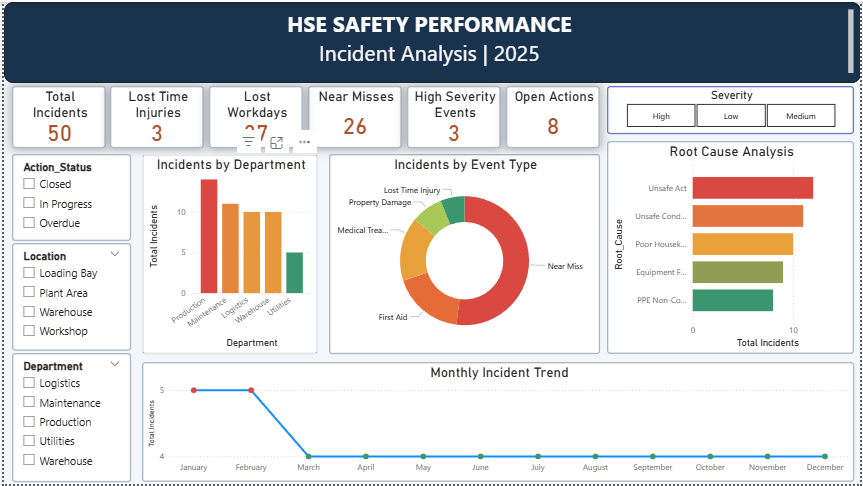
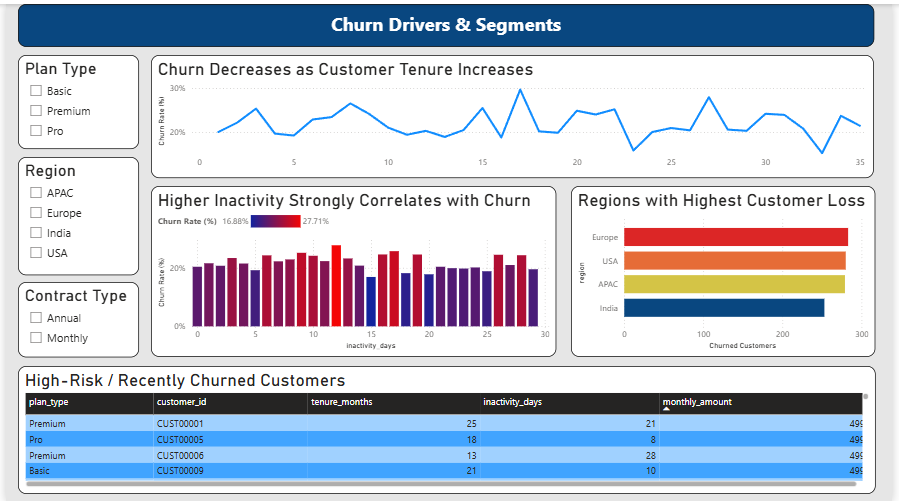
Improve portfolio project cards and badges

diff --git a/index.html b/index.html
@@ -20,7 +20,7 @@
             </li>
 
             <li>
-                <a href="#experience">Experince</a>
+                <a href="#experience">Experience</a>
             </li>
 
             <li>
@@ -127,11 +127,30 @@
 
             <div class="project-card">
                 <img src="project-1.png" alt="">
+                <h3>HSE Safety Performance & Incident Analysis</h3>
+                <p>Effective safety management requires more than recording workplace incidents. This project transforms HSE data into meaningful insights by analyzing incident patterns, severity levels, and underlying causes using Excel and Power BI. It provides a clear view of safety performance and corrective actions, helping organizations recognize recurring risks and identify opportunities for continuous improvement.</p>
+                    <div class="project-tools">
+                        <span class="tool-badge tool-excel">Excel</span>
+                        <span class="tool-badge tool-powerbi">Power BI</span>
+                    </div>
+                <div class="btn-group">
+                    <a href="https://youtu.be/LVU1SX7PGrk" target="_blank" class="btn">Walkthrough</a>
+                    <a href="https://github.com/afridi-khan-ds/HSE-Incident-Analysis-Dashboard" target="_blank" class="btn">Github Repo</a>
+                </div>
+            </div>
+            
+            <div class="project-card">
+                <img src="project-2.png" alt="">
                 <h3>SuperStore Sales Analytics & Forecasting</h3>
                 <p>Sales Performance Dashboard provides a consolidated view of key metrics such as total sales, profit,
                     orders, and delivery time with breakdowns by region, category, segment, and shipping mode. Forecasts
                     sales for the next 15 days using historical daily sales data and Power BI time-series forecasting
                     with confidence intervals.</p>
+                        <div class="project-tools">
+                            <span class="tool-badge tool-python">Python</span>
+                            <span class="tool-badge tool-sql">SQL</span>
+                            <span class="tool-badge tool-powerbi">Power BI</span>
+                        </div>
                 <div class="btn-group">
                     <a href="https://youtu.be/GcKGCN9YMIU" target="_blank" class="btn">Walkthrough</a>
                     <a href="https://github.com/afridi-khan-ds/SuperStore-Sales-Analytics-Forecasting" target="_blank"
@@ -140,12 +159,17 @@
             </div>
 
             <div class="project-card">
-                <img src="project-2.png" alt="">
+                <img src="project-3.png" alt="">
                 <h3>Customer Churn Analysis & Retention Insights</h3>
                 <p>Customer churn is a critical business problem for subscription-based companies. This project analyzes
                     customer behavior, identifies key churn drivers, and provides actionable retention insights using
                     SQL, Python, and Power BI. The objective is not only to measure churn, but to understand why
                     customers leave and how businesses can reduce churn effectively.</p>
+                        <div class="project-tools">
+                            <span class="tool-badge tool-python">Python</span>
+                            <span class="tool-badge tool-sql">SQL</span>
+                            <span class="tool-badge tool-powerbi">Power BI</span>
+                        </div>
                 <div class="btn-group">
                     <a href="https://youtu.be/atFDIIKvr5Y" target="_blank" class="btn">Walkthrough</a>
                     <a href="https://github.com/afridi-khan-ds/customer-churn-analysis" target="_blank"
@@ -154,19 +178,14 @@
             </div>
 
             <div class="project-card">
-                <img src="project-3.png" alt="">
-                <h3>HSE Safety Performance & Incident Analysis</h3>
-                <p>Effective safety management requires more than recording workplace incidents. This project transforms HSE data into meaningful insights by analyzing incident patterns, severity levels, and underlying causes using Excel and Power BI. It provides a clear view of safety performance and corrective actions, helping organizations recognize recurring risks and identify opportunities for continuous improvement.</p>
-                <div class="btn-group">
-                    <a href="https://youtu.be/LVU1SX7PGrk" target="_blank" class="btn">Walkthrough</a>
-                    <a href="https://github.com/afridi-khan-ds/HSE-Incident-Analysis-Dashboard" target="_blank" class="btn">Github Repo</a>
-                </div>
-            </div>
-            
-            <div class="project-card">
                 <img src="project-4.png" alt="">
                 <h3>Interactive Quiz Game</h3>
                 <p>Interactive web applications provide an engaging way to test knowledge and learning. This project features a multiple-choice quiz game built using HTML, CSS, and JavaScript, incorporating randomized questions, instant answer feedback, and score tracking. The objective is to create a simple, user-friendly experience that combines interactive design with dynamic functionality and encourages users to test and improve their general knowledge.</p>
+                    <div class="project-tools">
+                        <span class="tool-badge tool-html">HTML</span>
+                        <span class="tool-badge tool-css">CSS</span>
+                        <span class="tool-badge tool-javascript">JavaScript</span>
+                    </div>
                 <div class="btn-group">
                     <a href="https://youtu.be/VM1QONlMQUs" target="_blank" class="btn">Walkthrough</a>
                     <a href="https://github.com/afridi-khan-ds/interactive-quiz-game" target="_blank"

diff --git a/style.css b/style.css
@@ -556,3 +556,55 @@ a.btn {
 a.btn:hover {
     color: white;
 }
+
+
+/* Project technology badges */
+.project-tools {
+    display: flex;
+    flex-wrap: wrap;
+    gap: 8px;
+    margin: 12px 0 18px;
+}
+
+.tool-badge {
+    display: inline-block;
+    padding: 5px 10px;
+    border-radius: 6px;
+    font-size: 12px;
+    font-weight: 600;
+}
+
+.tool-python {
+    background: #E8F2FF;
+    color: #2457A6;
+}
+
+.tool-sql {
+    background: #E3F6ED;
+    color: #176B48;
+}
+
+.tool-powerbi {
+    background: #FFF0E1;
+    color: #99500C;
+}
+
+.tool-excel {
+    background: #E7F5E8;
+    color: #216E39;
+}
+
+.tool-html {
+    background: #FCE9E2;
+    color: #B54724;
+}
+
+.tool-css {
+    background: #EDE9FE;
+    color: #6941C6;
+}
+
+.tool-javascript {
+    background: #FFF8CC;
+    color: #806600;
+}
